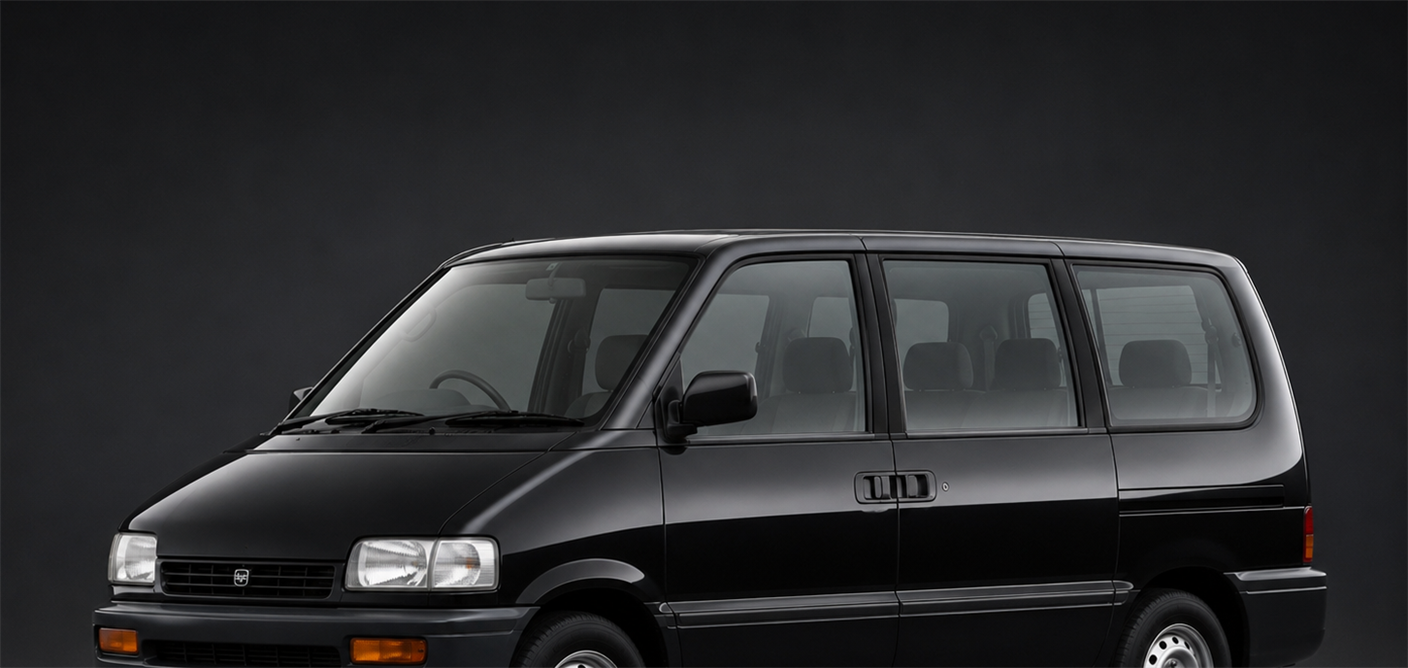
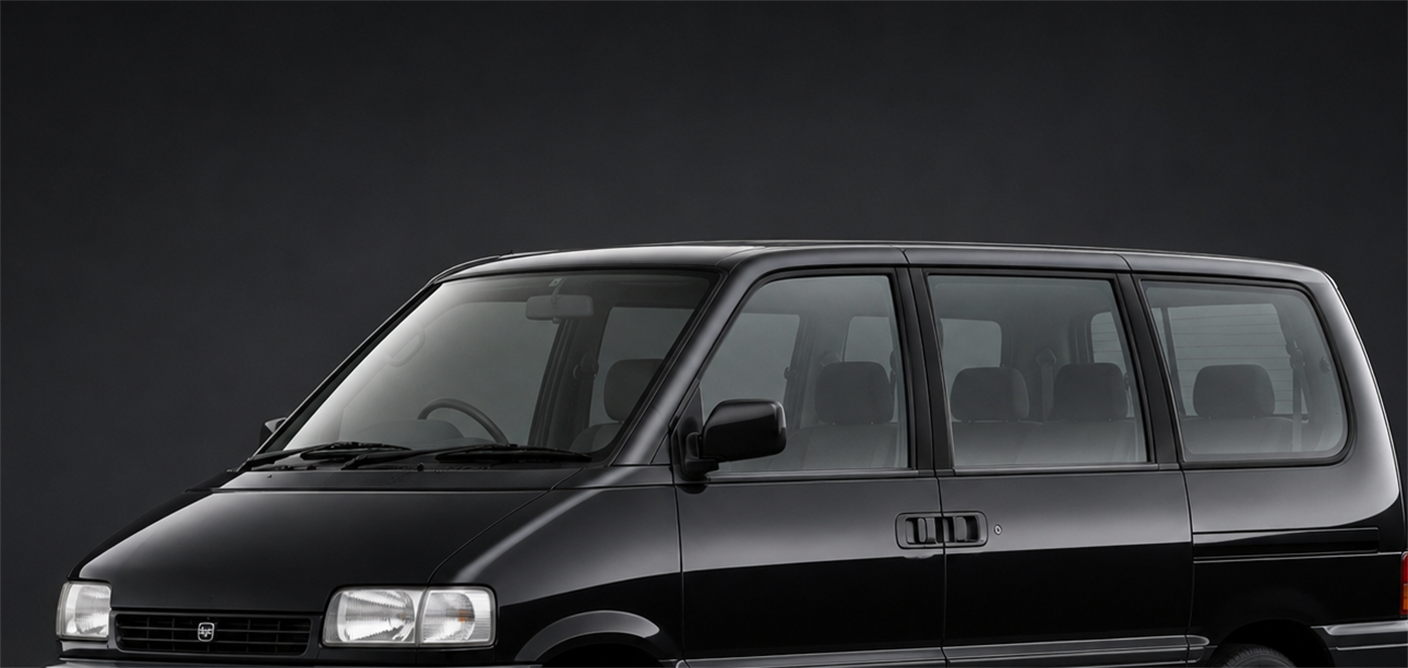
fix: correct annotation pin accuracy across all vehicles, unify SERENA/STEPWGN gen1-2 framing
Annotation pins (all 27 generations, VOXY/Alphard/NOAH/SERENA/STEPWGN/
Vellfire): re-checked each x/y coordinate directly against its actual
photo (rendered a red/green/yellow dot overlay per generation to
verify, rather than trusting the placeholder coordinates carried over
from before real photos existed). ~20 of ~65 pins were meaningfully
off target (e.g. a "headlight" pin sitting on the windshield, a
"bumper" pin sitting on the headlight) and have been repositioned to
land on the actual described feature. Also rebalanced labelX spacing
on every pin moved into a shared top/bottom margin row to avoid new
label-to-label overlaps at mobile widths (verified zero overlaps
across all 27 generations at 375px).

SERENA/STEPWGN gen1-2 (added in the previous session): re-cropped
tighter against their own siblings' framing. Side-by-side comparison
strips showed these two generations reading noticeably smaller/more
distant than gen3-6 of the same vehicle -- inconsistent with the
"same studio, same camera" premise the rest of the site holds to.
Re-cropped from the original source photos with a tighter, more
centered window so body scale and ground-line now read consistent
with their own vehicle's other generations.

diff --git a/src/cars/stepwgn.js b/src/cars/stepwgn.js
@@ -26,8 +26,8 @@ const generations = [
     period: '1996年〜2001年',
     image: '/images/cars/stepwgn/gen1-1996.png',
     annotations: [
-      { x: 30, y: 48, label: '無骨で実用的なフロントグリル', dir: 'bottom', labelX: 30 },
-      { x: 60, y: 10, label: '背の高いウォークスルー・ボディ', dir: 'top', labelX: 62 },
+      { x: 25, y: 70, label: '無骨で実用的なフロントグリル', dir: 'bottom', labelX: 25 },
+      { x: 60, y: 32, label: '背の高いウォークスルー・ボディ', dir: 'top', labelX: 62 },
     ],
     facelift: {
       fromYear: '1996', toYear: '1999',
@@ -44,8 +44,8 @@ const generations = [
     period: '2001年〜2005年',
     image: '/images/cars/stepwgn/gen2-2001.png',
     annotations: [
-      { x: 31, y: 46, label: 'キープコンセプトの台形グリル', dir: 'bottom', labelX: 31 },
-      { x: 58, y: 16, label: '張り出したフェンダーアーチ（SPADA）', dir: 'top', labelX: 62 },
+      { x: 31, y: 62, label: 'キープコンセプトの台形グリル', dir: 'bottom', labelX: 31 },
+      { x: 48, y: 62, label: '張り出したフェンダーアーチ（SPADA）', dir: 'bottom', labelX: 62 },
     ],
     facelift: {
       fromYear: '2001', toYear: '2003',
@@ -63,8 +63,8 @@ const generations = [
     period: '2005年〜2009年',
     image: '/images/cars/stepwgn/gen3-2005.png',
     annotations: [
-      { x: 30, y: 44, label: '低められた車高と大型グリル', dir: 'bottom', labelX: 30 },
-      { x: 56, y: 20, label: '両側スライドドアの採用', dir: 'top', labelX: 60 },
+      { x: 30, y: 58, label: '低められた車高と大型グリル', dir: 'bottom', labelX: 30 },
+      { x: 70, y: 55, label: '両側スライドドアの採用', dir: 'bottom', labelX: 78 },
     ],
     facelift: {
       fromYear: '2005', toYear: '2007',
@@ -83,7 +83,7 @@ const generations = [
     image: '/images/cars/stepwgn/gen4-2009.png',
     annotations: [
       { x: 31, y: 46, label: '角度のついたメッキグリル', dir: 'bottom', labelX: 31 },
-      { x: 58, y: 22, label: '丸みを帯びた親しみやすいフェイス', dir: 'top', labelX: 62 },
+      { x: 55, y: 48, label: '丸みを帯びた親しみやすいフェイス', dir: 'bottom', labelX: 66 },
     ],
     facelift: {
       fromYear: '2012', toYear: '2012',
@@ -101,7 +101,7 @@ const generations = [
     image: '/images/cars/stepwgn/gen5-2015.png',
     annotations: [
       { x: 32, y: 48, label: '水平基調に広がるフロントフェイス', dir: 'bottom', labelX: 32 },
-      { x: 60, y: 24, label: 'スリムなヘッドライト', dir: 'top', labelX: 64 },
+      { x: 58, y: 45, label: 'スリムなヘッドライト', dir: 'bottom', labelX: 68 },
     ],
     facelift: {
       fromYear: '2017', toYear: '2017',
@@ -119,8 +119,8 @@ const generations = [
     period: '2022年〜現在',
     image: '/images/cars/stepwgn/gen6-2022.png',
     annotations: [
-      { x: 39, y: 30, label: '大型化した一体感のあるフロント', dir: 'top', labelX: 36 },
-      { x: 55, y: 52, label: '存在感のある水平グリル', dir: 'bottom', labelX: 66 },
+      { x: 39, y: 30, label: '大型化した一体感のあるフロント', dir: 'top', labelX: 62 },
+      { x: 25, y: 45, label: '存在感のある水平グリル', dir: 'top', labelX: 6 },
     ],
     facelift: null,
   },

diff --git a/src/cars/serena.js b/src/cars/serena.js
@@ -29,8 +29,8 @@ const generations = [
     period: '1991年〜1999年',
     image: '/images/cars/serena/gen1-1991.png',
     annotations: [
-      { x: 30, y: 50, label: '商用車由来の無骨なグリル', dir: 'bottom', labelX: 30 },
-      { x: 60, y: 14, label: '直立した箱型フォルム', dir: 'top', labelX: 62 },
+      { x: 25, y: 80, label: '商用車由来の無骨なグリル', dir: 'bottom', labelX: 25 },
+      { x: 60, y: 37, label: '直立した箱型フォルム', dir: 'top', labelX: 62 },
     ],
     facelift: {
       fromYear: '1994', toYear: '1997',
@@ -48,7 +48,7 @@ const generations = [
     period: '1999年〜2005年',
     image: '/images/cars/serena/gen2-1999.png',
     annotations: [
-      { x: 32, y: 46, label: '横方向に広がりを見せるグリル', dir: 'bottom', labelX: 32 },
+      { x: 32, y: 53, label: '横方向に広がりを見せるグリル', dir: 'bottom', labelX: 32 },
       { x: 58, y: 20, label: '低められた前傾フォルム', dir: 'top', labelX: 62 },
     ],
     facelift: {
@@ -85,7 +85,7 @@ const generations = [
     image: '/images/cars/serena/gen4-2010.png',
     annotations: [
       { x: 31, y: 46, label: '台形を基調としたグリル', dir: 'bottom', labelX: 31 },
-      { x: 60, y: 22, label: 'スクエアなヘッドランプ', dir: 'top', labelX: 64 },
+      { x: 58, y: 50, label: 'スクエアなヘッドランプ', dir: 'bottom', labelX: 68 },
     ],
     facelift: {
       fromYear: '2012', toYear: '2013',
@@ -104,7 +104,7 @@ const generations = [
     image: '/images/cars/serena/gen5-2016.png',
     annotations: [
       { x: 32, y: 48, label: 'V字を描くクロームグリル', dir: 'bottom', labelX: 32 },
-      { x: 58, y: 24, label: 'シャープなヘッドランプ', dir: 'top', labelX: 62 },
+      { x: 52, y: 50, label: 'シャープなヘッドランプ', dir: 'bottom', labelX: 66 },
     ],
     facelift: {
       fromYear: '2019', toYear: '2019',
@@ -122,7 +122,7 @@ const generations = [
     image: '/images/cars/serena/gen6-2022.png',
     annotations: [
       { x: 40, y: 30, label: '水平基調の一体型フロント', dir: 'top', labelX: 38 },
-      { x: 54, y: 50, label: '発光する大型エンブレム', dir: 'bottom', labelX: 66 },
+      { x: 37, y: 50, label: '発光する大型エンブレム', dir: 'bottom', labelX: 66 },
     ],
     // 2024年9月9日の一部改良: 4WD(e-4ORCE)モデルを追加、ガソリン
     // モデルは価格改定。

diff --git a/src/cars/voxy.js b/src/cars/voxy.js
@@ -23,8 +23,8 @@ const generations = [
     period: '2001年〜2007年',
     image: '/images/cars/voxy/gen1-2001.png',
     annotations: [
-      { x: 30, y: 46, label: '3本クロームグリル', dir: 'bottom', labelX: 30 },
-      { x: 60, y: 10, label: '箱型シルエット', dir: 'top', labelX: 62 },
+      { x: 21, y: 54, label: '3本クロームグリル', dir: 'bottom', labelX: 21 },
+      { x: 60, y: 14, label: '箱型シルエット', dir: 'top', labelX: 62 },
     ],
     facelift: {
       fromYear: '2001', toYear: '2004',
@@ -41,9 +41,9 @@ const generations = [
     period: '2007年〜2014年',
     image: '/images/cars/voxy/gen2-2007.png',
     annotations: [
-      { x: 28, y: 28, label: '大型クロームエンブレム', dir: 'top', labelX: 24 },
-      { x: 36, y: 58, label: 'ハニカムメッシュグリル', dir: 'bottom', labelX: 36 },
-      { x: 60, y: 42, label: '丸みを帯びたフェイス', dir: 'top', labelX: 64 },
+      { x: 30, y: 53, label: '大型クロームエンブレム', dir: 'bottom', labelX: 10 },
+      { x: 36, y: 58, label: 'ハニカムメッシュグリル', dir: 'bottom', labelX: 52 },
+      { x: 45, y: 42, label: '丸みを帯びたフェイス', dir: 'top', labelX: 64 },
     ],
     facelift: {
       fromYear: '2007', toYear: '2010',
@@ -61,7 +61,7 @@ const generations = [
     image: '/images/cars/voxy/gen3-2014.png',
     annotations: [
       { x: 31, y: 47, label: '鋭角的なV字グリル', dir: 'bottom', labelX: 31 },
-      { x: 46, y: 40, label: 'スイープヘッドライト', dir: 'top', labelX: 50 },
+      { x: 47, y: 55, label: 'スイープヘッドライト', dir: 'bottom', labelX: 55 },
     ],
     facelift: {
       fromYear: '2014', toYear: '2017',
@@ -78,8 +78,8 @@ const generations = [
     period: '2022年〜現在',
     image: '/images/cars/voxy/gen4-2022.png',
     annotations: [
-      { x: 40, y: 28, label: 'フルワイド発光ライン', dir: 'top', labelX: 38 },
-      { x: 52, y: 50, label: '3眼LEDヘッドライト', dir: 'bottom', labelX: 66 },
+      { x: 35, y: 36, label: 'フルワイド発光ライン', dir: 'top', labelX: 38 },
+      { x: 18, y: 43, label: '3眼LEDヘッドライト', dir: 'top', labelX: 66 },
       { x: 28, y: 68, label: 'ダイヤモンドメッシュグリル', dir: 'bottom', labelX: 15 },
     ],
     facelift: {

diff --git a/src/cars/noah.js b/src/cars/noah.js
@@ -43,7 +43,7 @@ const generations = [
     image: '/images/cars/noah/gen1-2001.png',
     annotations: [
       { x: 31, y: 47, label: '横一文字に伸びる大型クロームバー', dir: 'bottom', labelX: 31 },
-      { x: 62, y: 12, label: '丸く包み込むようなヘッドランプ', dir: 'top', labelX: 64 },
+      { x: 58, y: 50, label: '丸く包み込むようなヘッドランプ', dir: 'bottom', labelX: 68 },
     ],
     facelift: {
       fromYear: '2001', toYear: '2004',
@@ -60,8 +60,8 @@ const generations = [
     period: '2007年〜2014年',
     image: '/images/cars/noah/gen2-2007.png',
     annotations: [
-      { x: 29, y: 32, label: '格子ではなく面で魅せるグリル', dir: 'top', labelX: 25 },
-      { x: 58, y: 46, label: '包み込むように丸いフェイス', dir: 'bottom', labelX: 62 },
+      { x: 30, y: 53, label: '格子ではなく面で魅せるグリル', dir: 'bottom', labelX: 25 },
+      { x: 45, y: 48, label: '包み込むように丸いフェイス', dir: 'bottom', labelX: 62 },
     ],
     facelift: {
       fromYear: '2007', toYear: '2010',
@@ -78,8 +78,8 @@ const generations = [
     period: '2014年〜2021年',
     image: '/images/cars/noah/gen3-2014.png',
     annotations: [
-      { x: 30, y: 46, label: '台形にせり出す大型グリル', dir: 'bottom', labelX: 30 },
-      { x: 50, y: 36, label: '厚みを感じさせるバンパー', dir: 'top', labelX: 54 },
+      { x: 30, y: 46, label: '台形にせり出す大型グリル', dir: 'bottom', labelX: 12 },
+      { x: 48, y: 68, label: '厚みを感じさせるバンパー', dir: 'bottom', labelX: 62 },
     ],
     facelift: {
       fromYear: '2014', toYear: '2017',
@@ -96,8 +96,8 @@ const generations = [
     period: '2022年〜現在',
     image: '/images/cars/noah/gen4-2022.png',
     annotations: [
-      { x: 38, y: 30, label: '水平に伸びる一体グリル', dir: 'top', labelX: 36 },
-      { x: 58, y: 52, label: '風格を漂わせる大型メッキ', dir: 'bottom', labelX: 70 },
+      { x: 38, y: 38, label: '水平に伸びる一体グリル', dir: 'top', labelX: 60 },
+      { x: 25, y: 42, label: '風格を漂わせる大型メッキ', dir: 'top', labelX: 8 },
     ],
     facelift: {
       // 2025年9月2日の単発発表・発売 (グレード整理: 標準の "X" + エアロ

diff --git a/src/cars/alphard.js b/src/cars/alphard.js
@@ -44,9 +44,9 @@ const generations = [
     period: '2008年〜2015年',
     image: '/images/cars/alphard/gen2-2008.png',
     annotations: [
-      { x: 28, y: 28, label: '切れ長の大型ヘッドランプ', dir: 'top', labelX: 24 },
-      { x: 36, y: 58, label: '横バー基調のグリル', dir: 'bottom', labelX: 36 },
-      { x: 60, y: 42, label: 'V字型に抜けるフロントライン', dir: 'top', labelX: 64 },
+      { x: 42, y: 52, label: '切れ長の大型ヘッドランプ', dir: 'bottom', labelX: 55 },
+      { x: 20, y: 48, label: '横バー基調のグリル', dir: 'bottom', labelX: 8 },
+      { x: 48, y: 36, label: 'V字型に抜けるフロントライン', dir: 'top', labelX: 64 },
     ],
     facelift: {
       fromYear: '2008', toYear: '2011',
@@ -63,8 +63,8 @@ const generations = [
     period: '2015年〜2023年',
     image: '/images/cars/alphard/gen3-2015.png',
     annotations: [
-      { x: 31, y: 47, label: '大型化したフロントグリル', dir: 'bottom', labelX: 31 },
-      { x: 46, y: 40, label: '重厚な押し出し感のあるバンパー', dir: 'top', labelX: 50 },
+      { x: 31, y: 47, label: '大型化したフロントグリル', dir: 'bottom', labelX: 12 },
+      { x: 50, y: 68, label: '重厚な押し出し感のあるバンパー', dir: 'bottom', labelX: 62 },
     ],
     facelift: {
       fromYear: '2015', toYear: '2018',
@@ -82,7 +82,7 @@ const generations = [
     period: '2023年〜現在',
     image: '/images/cars/alphard/gen4-2023.png',
     annotations: [
-      { x: 40, y: 30, label: '縦方向に直線的な「逆スラント」フェイス', dir: 'top', labelX: 38 },
+      { x: 40, y: 38, label: '縦方向に直線的な「逆スラント」フェイス', dir: 'top', labelX: 38 },
       { x: 52, y: 52, label: 'トヨタエンブレムを据えたグリル', dir: 'bottom', labelX: 62 },
       { x: 74, y: 46, label: '凹凸のある立体的なボディサイド', dir: 'top', labelX: 78 },
     ],

diff --git a/src/cars/vellfire.js b/src/cars/vellfire.js
@@ -44,7 +44,7 @@ const generations = [
     image: '/images/cars/vellfire/gen2-2015.png',
     annotations: [
       { x: 20, y: 48, label: '大型グリルと一体化したヘッドランプ', dir: 'bottom', labelX: 20 },
-      { x: 50, y: 20, label: '鋭く抜けるキャラクターライン', dir: 'top', labelX: 52 },
+      { x: 48, y: 44, label: '鋭く抜けるキャラクターライン', dir: 'bottom', labelX: 60 },
     ],
     facelift: {
       fromYear: '2015', toYear: '2018',
@@ -62,7 +62,7 @@ const generations = [
     image: '/images/cars/vellfire/gen3-2023.png',
     annotations: [
       { x: 22, y: 45, label: '立体的で鋭さのあるダイヤモンドグリル', dir: 'bottom', labelX: 22 },
-      { x: 56, y: 16, label: '逆スラント基調のフロントフェイス', dir: 'top', labelX: 58 },
+      { x: 40, y: 35, label: '逆スラント基調のフロントフェイス', dir: 'top', labelX: 58 },
     ],
     facelift: {
       fromYear: '2023', toYear: '2025',
